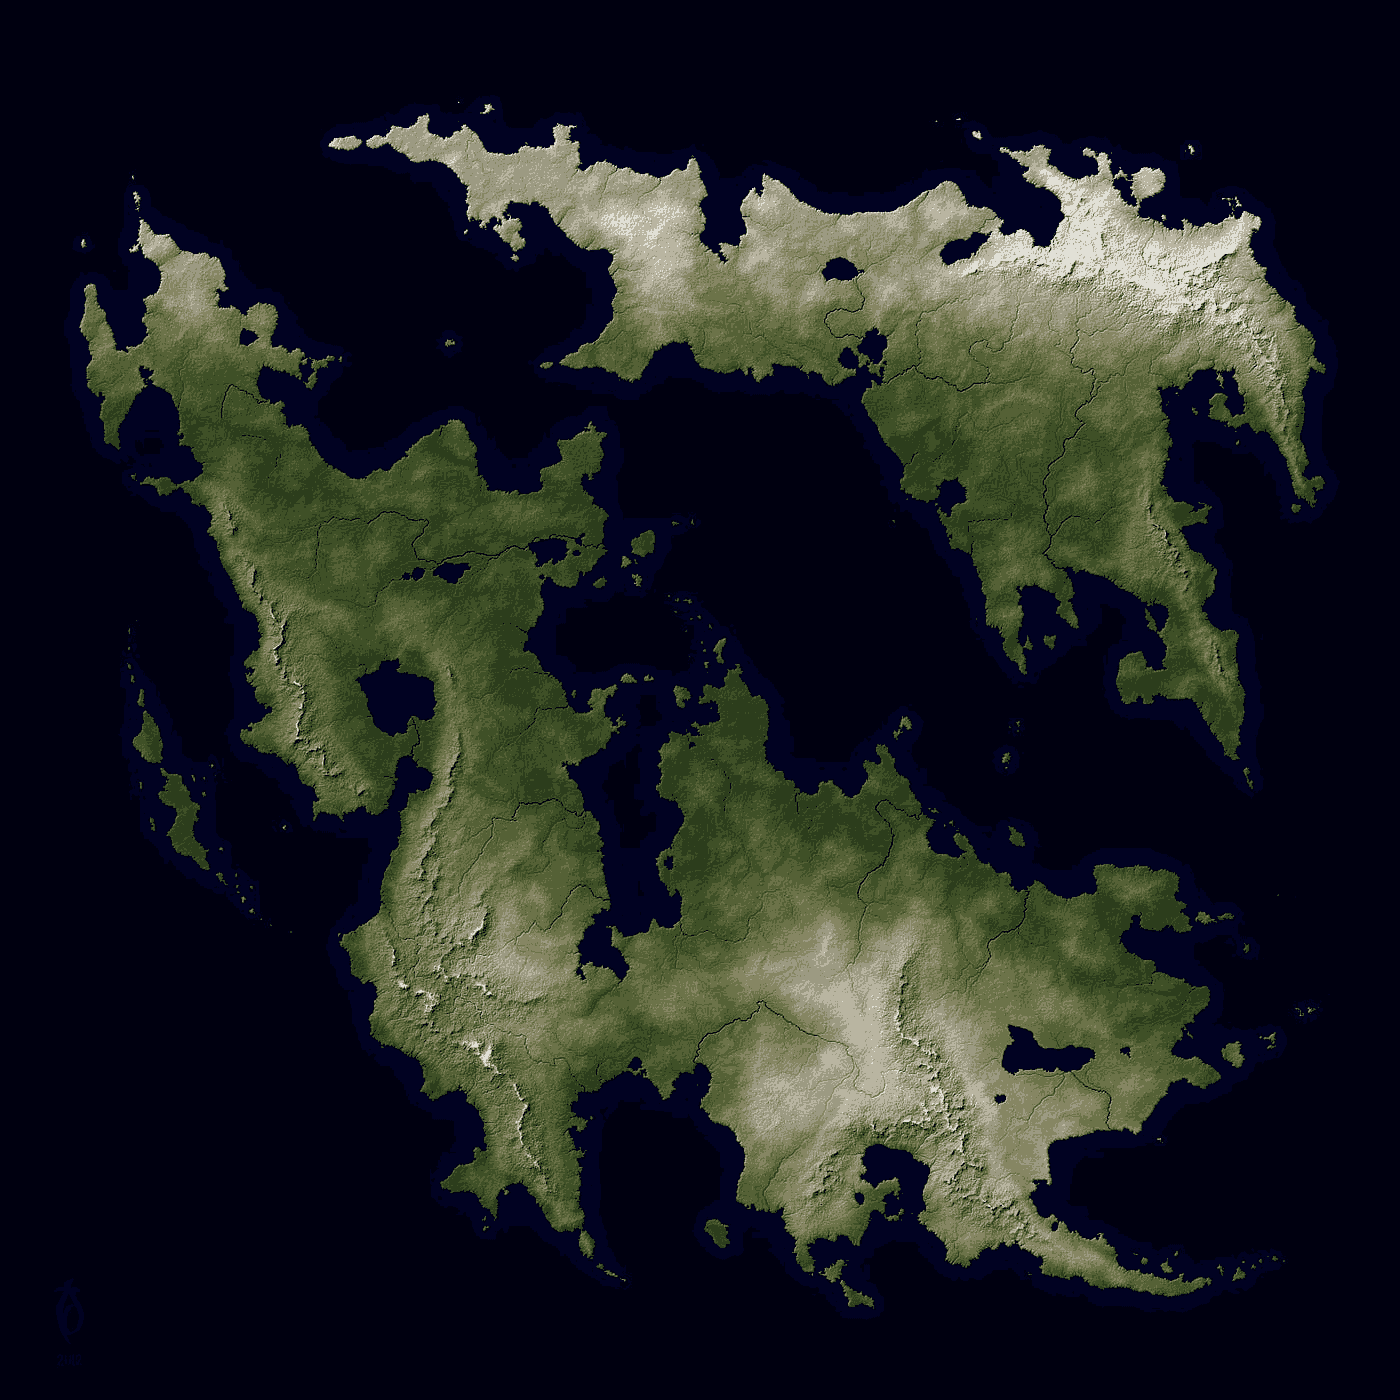
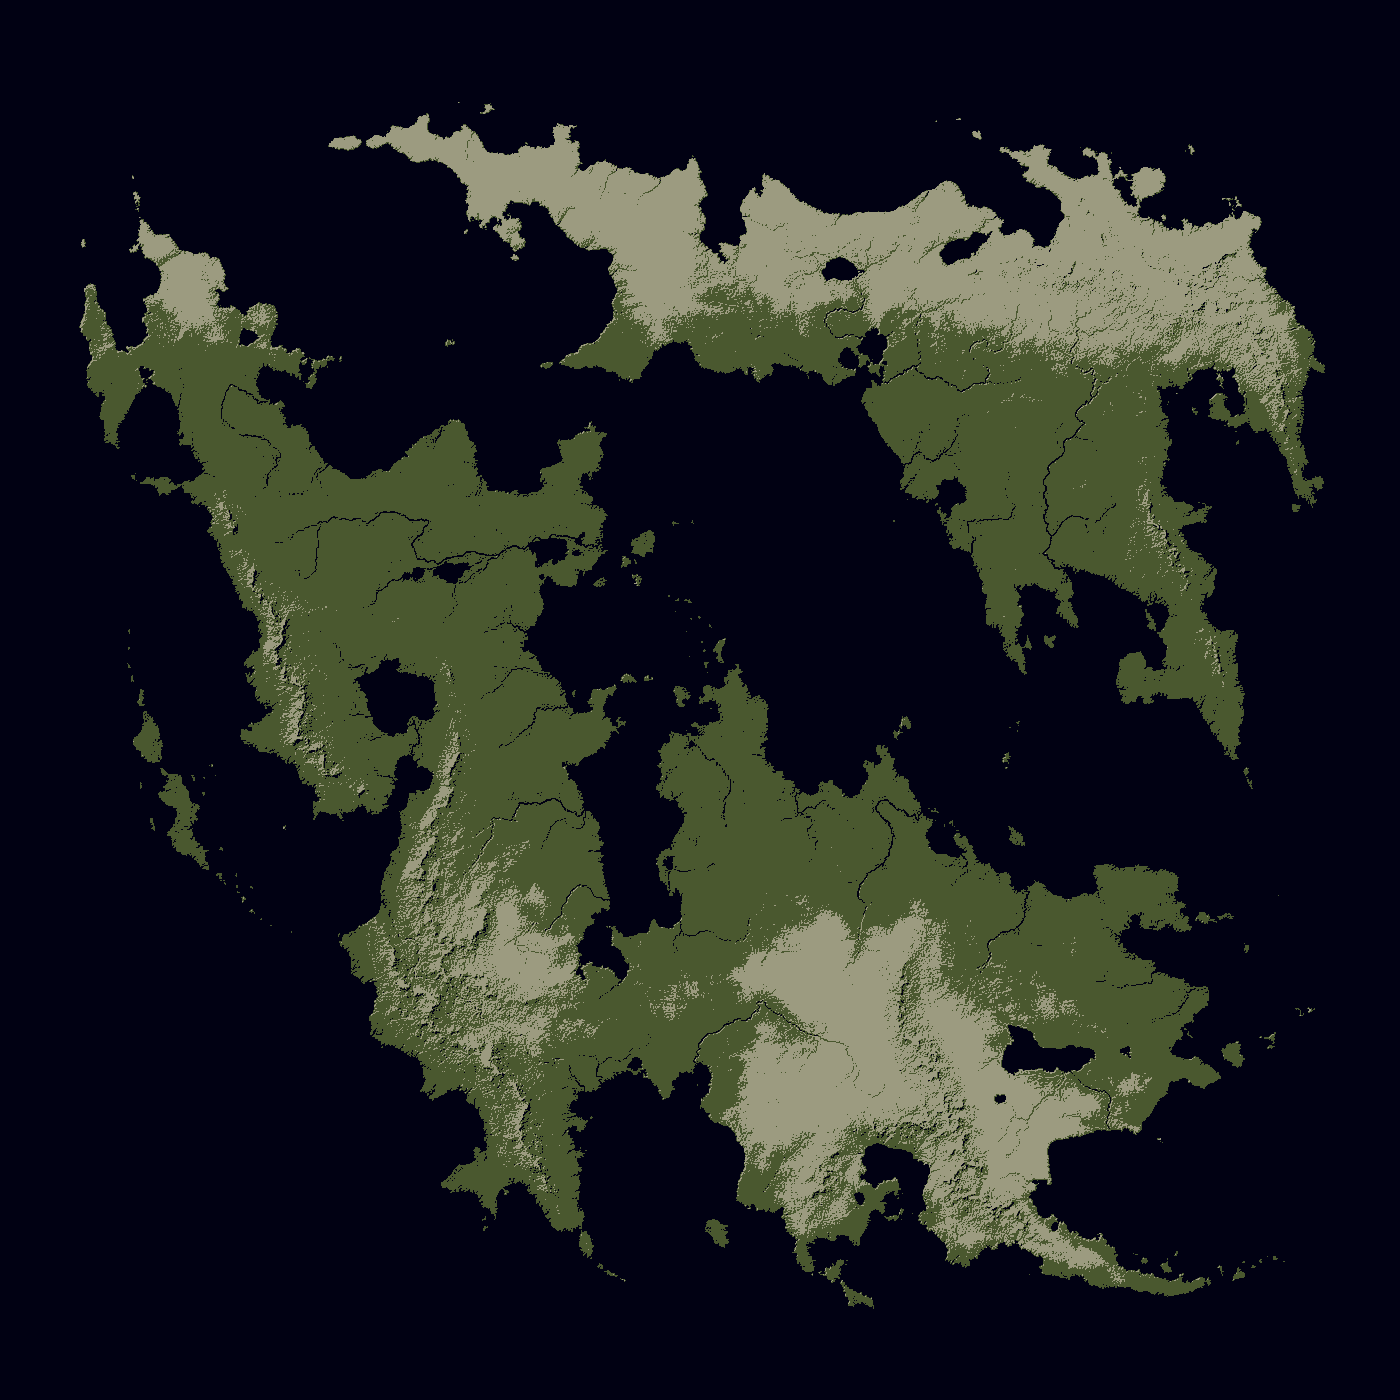
Partie 2 de la sae : D´etection et visualisation des biomes avec Kmeans

diff --git a/src/Algo_Kmeans/AlgoKMeans.java b/src/Algo_Kmeans/AlgoKMeans.java
@@ -1,8 +1,13 @@
 package Algo_Kmeans;
 
-import flou.OutilCouleur;
+import Normes.NormeCouleurs;
+import Normes.NormeRGB;
+import outils.OutilCouleur;
 import outils.AlgoInterface;
+import outils.Palette;
+
 import javax.imageio.ImageIO;
+import java.awt.*;
 import java.awt.image.BufferedImage;
 import java.io.File;
 import java.io.IOException;
@@ -214,7 +219,58 @@ public class AlgoKMeans implements AlgoInterface {
                 }
             }
 
-            // sauvegarde le résultat
+            // détection des biomes
+            Palette palette = new Palette();
+            NormeCouleurs norme = new NormeRGB();
+            String[] nomsBiomes = new String[nbGroupes];
+
+            for (int i = 0; i < nbGroupes; i++) {
+                // on recrée une couleur à partir du centroïde final
+                int r = (int) centroidesFinaux[i][0];
+                int g = (int) centroidesFinaux[i][1];
+                int b = (int) centroidesFinaux[i][2];
+                Color couleurCentroide = new Color(r, g, b);
+
+                // on demande recupère le biome le plus proche
+                nomsBiomes[i] = palette.trouverBiomeLePlusProche(couleurCentroide, norme);
+
+                System.out.println("Le groupe " + i + " correspond au biome : " + nomsBiomes[i]);
+            }
+
+            // affichage des différents biomes
+            double pourcentageEclair = 75.0;
+            for (int i = 0; i < nbGroupes; i++) {
+                // nouvelle image vierge
+                BufferedImage imageBiome = new BufferedImage(largeur, longeur, BufferedImage.TYPE_INT_ARGB);
+
+                int indexPixel = 0;
+
+                for (int x = 0; x < largeur; x++) {
+                    for (int y = 0; y < longeur; y++) {
+                        // recup la couleur du pixel de l'image source
+                        int numRgbBase = imageSource.getRGB(x, y);
+
+                        // si le pixel appartient au groupe
+                        if (resultat[indexPixel] == i) {
+                            // on garde la couleur d'origine pour voir le biome
+                            imageBiome.setRGB(x, y, numRgbBase);
+                        } else {
+                            // on éclaircit le pixel
+                            int rgbEclairci = OutilCouleur.eclaircirPixel(numRgbBase, pourcentageEclair);
+                            imageBiome.setRGB(x, y, rgbEclairci);
+                        }
+                        indexPixel++;
+                    }
+                }
+
+                // sauvegarde le résultat
+                String nomFichier = cheminDestination.replace(".jpg", "_" + nomsBiomes[i] + ".jpg");
+                File fichierDestBiome = new File(nomFichier);
+                ImageIO.write(imageBiome, "png", fichierDestBiome);
+
+                System.out.println("Image du biome " + nomsBiomes[i] + " sauvegardée : " + nomFichier);
+
+            }
             File fichierDest = new File(cheminDestination);
             ImageIO.write(nvImage, "png", fichierDest);
             System.out.println(" Algo terminée");

diff --git a/src/outils/OutilCouleur.java b/src/outils/OutilCouleur.java
@@ -1,0 +1,53 @@
+package outils;
+
+import java.awt.Color;
+
+
+public class OutilCouleur {
+
+  public static int[] getTabColor(int c) {  // c : entier rgb
+    int blue = c & 0xff;
+    int green = (c & 0xff00) >> 8;
+    int red = (c & 0xff0000) >> 16;
+
+    int[] rgb = {red, green, blue};
+    return rgb;
+  }
+
+  public static int getColor(int r, int g, int b) {
+    Color color = new Color(r, g, b);
+    return color.getRGB();
+  }
+  
+  public static int combineCouleur(int r, int g, int b) {
+    Color color = new Color(r, g, b);
+    return color.getRGB();
+  }
+
+  /**
+   * méthode qui éclaircit un pixel selon un pourcentage donné
+   * nouveau = valeur + (pourcentage/100) * (255 - valeur)
+   */
+  public static int eclaircirPixel(int rgb, double pourcentage) {
+    // extraction des canaux
+    // alpha
+    int a = (rgb >> 24) & 0xFF;
+    int[] tab = getTabColor(rgb);
+    int r = tab[0];
+    int g = tab[1];
+    int b = tab[2];
+
+    // calcul des nouvelles valeurs
+    int nouveauR = (int) Math.round(r + (pourcentage / 100.0) * (255 - r));
+    int nouveauG = (int) Math.round(g + (pourcentage / 100.0) * (255 - g));
+    int nouveauB = (int) Math.round(b + (pourcentage / 100.0) * (255 - b));
+
+    // vérif de ne pas dépasser 255
+    nouveauR = Math.min(255, nouveauR);
+    nouveauG = Math.min(255, nouveauG);
+    nouveauB = Math.min(255, nouveauB);
+
+    // recombinaison des canaux
+    return (a << 24) | (nouveauR << 16) | (nouveauG << 8) | nouveauB;
+  }
+}

diff --git a/src/outils/Palette.java b/src/outils/Palette.java
@@ -2,14 +2,14 @@ package outils;
 
 import java.awt.Color;
 import java.util.HashMap;
+import Normes.NormeCouleurs;
 
 public class Palette {
     
-    // toutes les couleurs disponibles
-    private static HashMap<String, Color> listeCouleurs;
+    // toutes les couleurs disponibles avec le nom du biome correspondant
+    private HashMap<String, Color> listeCouleurs;
 
-
-
+    // constructeur qui initialise les biomes avec leurs couleurs
     public Palette() {
         this.listeCouleurs = new HashMap<>();
         listeCouleurs.put("Tundra", new Color(71, 70, 61));
@@ -24,5 +24,35 @@ public class Palette {
         listeCouleurs.put("Eau profonde", new Color(12, 31, 47));
     }
 
+    /**
+     * méthode pour trouver le biome dont la couleur est la plus proche de la couleur donnée
+     * en utilisant une norme spécifique
+     */
+    public String trouverBiomeLePlusProche(Color couleurCentroide, NormeCouleurs norme) {
+        // initialisation
+        String meilleurBiome = "Inconnu";
+        double distanceMin = Double.MAX_VALUE;
+
+        // on parcourt la palette des biomes
+        for (HashMap.Entry<String, Color> entry : listeCouleurs.entrySet()) {
+            String biome = entry.getKey();
+            Color c = entry.getValue();
+
+            // on calcule la distance entre la couleur du centroide et la couleur
+            double distance = norme.distanceCouleurs(couleurCentroide, c);
+
+            if (distance < distanceMin) {
+                distanceMin = distance;
+                meilleurBiome = biome;
+            }
+        }
+        // on retourne le nom du biome le plus proche
+        return meilleurBiome;
+    }
+
+    // getter pour récupérer la couleur exacte d'un biome
+    public Color getCouleurBiome(String nomBiome) {
+        return listeCouleurs.get(nomBiome);
+    }
 }
 

diff --git a/src/flou/FlouParMoyenne.java b/src/flou/FlouParMoyenne.java
@@ -1,5 +1,7 @@
 package flou;
 
+import outils.OutilCouleur;
+
 import java.awt.image.BufferedImage;
 import java.io.File;
 import java.io.IOException;